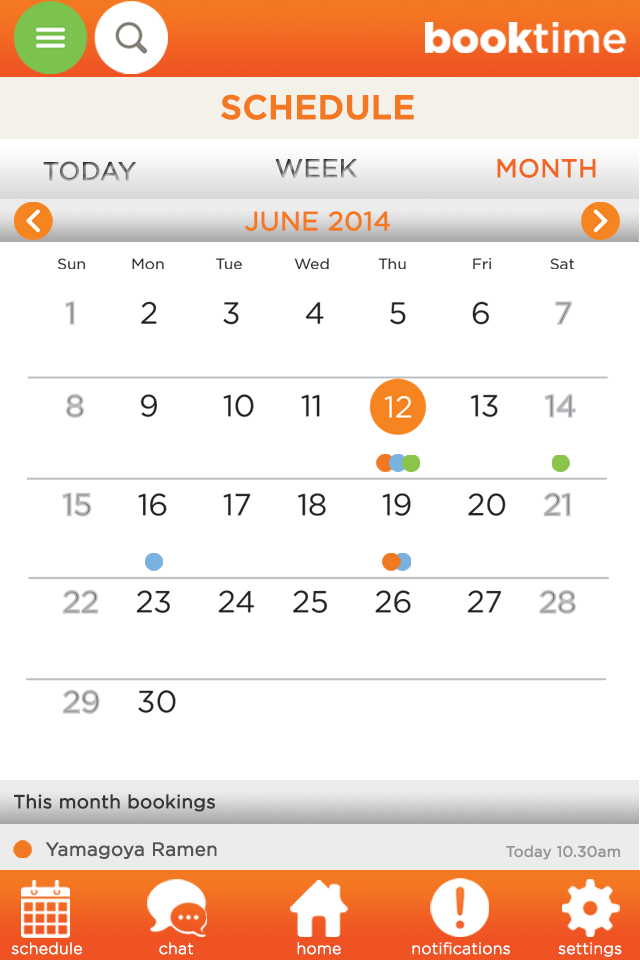
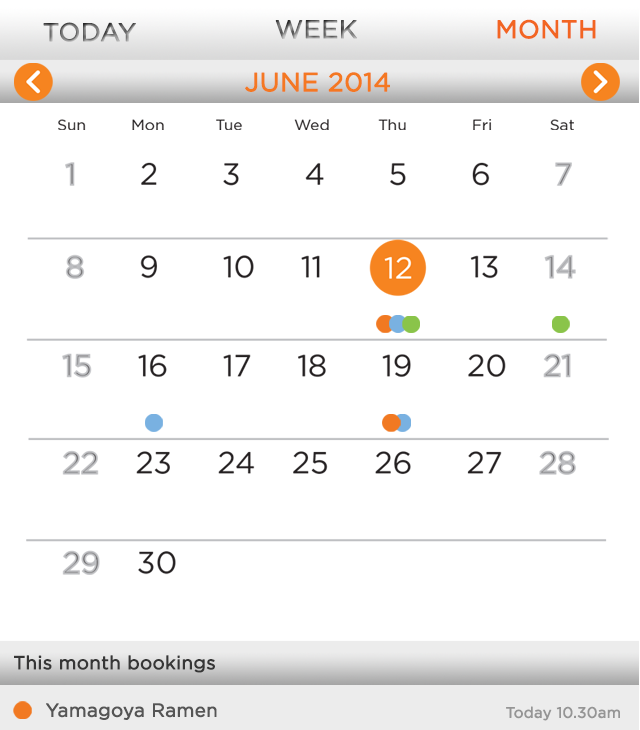
update screen

diff --git a/MEAN/public/modules/core/css/core.css b/MEAN/public/modules/core/css/core.css
@@ -52,17 +52,22 @@ body {
     }
 
 
-.mock .mockup, .mock .mockup img{
+.mock .mockup{
+    width: 100%;
+    height: 100%;
+    position: fixed;
+}
+
+.mock .mockup img{
     width: 100%;
     height: auto;
-    position: fixed;
 }
 
     .mock .mockup:before {
         content: 'MOCKUP';
         position: fixed;
-        -ms-opacity: 0.2;
-        opacity: 0.2;
+        -ms-opacity: 0.1;
+        opacity: 0.1;
         font-size: 90px;
         border: dotted 5px black;
         -webkit-transform: rotate(70deg) translate(145px, 127px);
@@ -70,6 +75,7 @@ body {
         -ms-transform: rotate(70deg) translate(145px, 127px);
         -o-transform: rotate(70deg) translate(145px, 127px);
         transform: rotate(70deg) translate(145px, 127px);
+        padding: 32px 10px;
     }
 
 

diff --git a/MEAN/public/modules/core/views/menu.html b/MEAN/public/modules/core/views/menu.html
@@ -6,14 +6,14 @@
 <!--        <div class="mainbar">-->
 <!--            <img src="res/screen/share/2x/02_mainpage_toolbar.jpg" style="height:auto;width: 100%;" />-->
 <!--        </div>        -->
-        <ion-nav-bar class="bar-stable">
+        <ion-nav-bar class="bar-stable bar-booktime">
             <ion-nav-back-button class="button-clear"><i class="icon ion-ios7-arrow-back"></i> Back</ion-nav-back-button>
         </ion-nav-bar>
         <ion-nav-view name="menuContent" animation="slide-left-right"></ion-nav-view>
     </ion-pane>
 
     <ion-side-menu side="left">
-        <header class="bar bar-header bar-stable">
+        <header class="bar bar-header bar-stable ">
             <h1 class="title">Left</h1>
         </header>
         <ion-content class="has-header">

diff --git a/MEAN/public/modules/home/views/shop.html b/MEAN/public/modules/home/views/shop.html
@@ -1,11 +1,8 @@
 
 
-<ion-view title="Suan Kularb" left-buttons="leftButtons">
-    <ion-nav-buttons side="left" class="bar-positive">
-        <!--        <button menu-toggle="left" class="button button-icon icon ion-navicon"></button>-->
-    </ion-nav-buttons>
-    <ion-nav-buttons side="right" class="bar-positive">
-        <button class="button button-clear">Share</button>
+<ion-view title="Suan Kularb" left-buttons="leftButtons"> 
+    <ion-nav-buttons side="right"  >
+        <button class="button button-clear button-booktime">Share</button>
     </ion-nav-buttons>
     <ion-content has-header="true" padding="false">
 

diff --git a/MEAN/public/modules/core/css/ionic.css b/MEAN/public/modules/core/css/ionic.css
@@ -1,4 +1,15 @@
-.tabs-booktime a:hover, .tabs-booktime a:focus {
+.bar.bar-booktime {
+    border-color: #f4f1e8;
+    background: #f4f1e8; 
+    color: #f47822;
+}
+.bar.bar-booktime .title {
+    color: #f47822;
+    font-weight: bold;
+    font-size: 18px;
+}
+
+.tabs-booktime a:hover, .tabs-booktime a:focus {
     color: white;
     text-decoration: none;
 }
@@ -8,6 +19,7 @@
     background: none;
     box-shadow: none;
     color: #f47822;
+    font-size: 15px;
 }
 
 

diff --git a/MEAN/public/modules/schedule/views/schedule.html b/MEAN/public/modules/schedule/views/schedule.html
@@ -3,7 +3,7 @@
 <ion-view title="SCHEDULE" left-buttons="leftButtons">
     <ion-content has-header="true" padding="false">
         <div class="mockup">
-            <img src="res/screen/share/2x/08_schedule_month.jpg" />
+            <img src="res/screen/share/2x/08_schedule2-month.png" />
         </div>
     </ion-content>
 </ion-view>

diff --git a/MEAN/public/modules/settings/views/setting.html b/MEAN/public/modules/settings/views/setting.html
@@ -4,7 +4,7 @@
      </ion-nav-buttons>
      <ion-content has-header="true" padding="false">
          <div class="mockup">
-             <img src="res/screen/share/2x/11_settings1.jpg" />
+             <img src="res/screen/share/2x/10_1settings_main.png" />
          </div>
      </ion-content>
  </ion-view> 

diff --git a/MEAN/public/modules/notifications/views/notifications.html b/MEAN/public/modules/notifications/views/notifications.html
@@ -8,7 +8,7 @@
     </ion-nav-buttons>
     <ion-content has-header="true" padding="false">
         <div class="mockup">
-            <img src="res/screen/share/2x/07_notifications.jpg" />
+            <img src="res/screen/share/2x/09_notifications_main.png" />
         </div>
     </ion-content>
 </ion-view>
